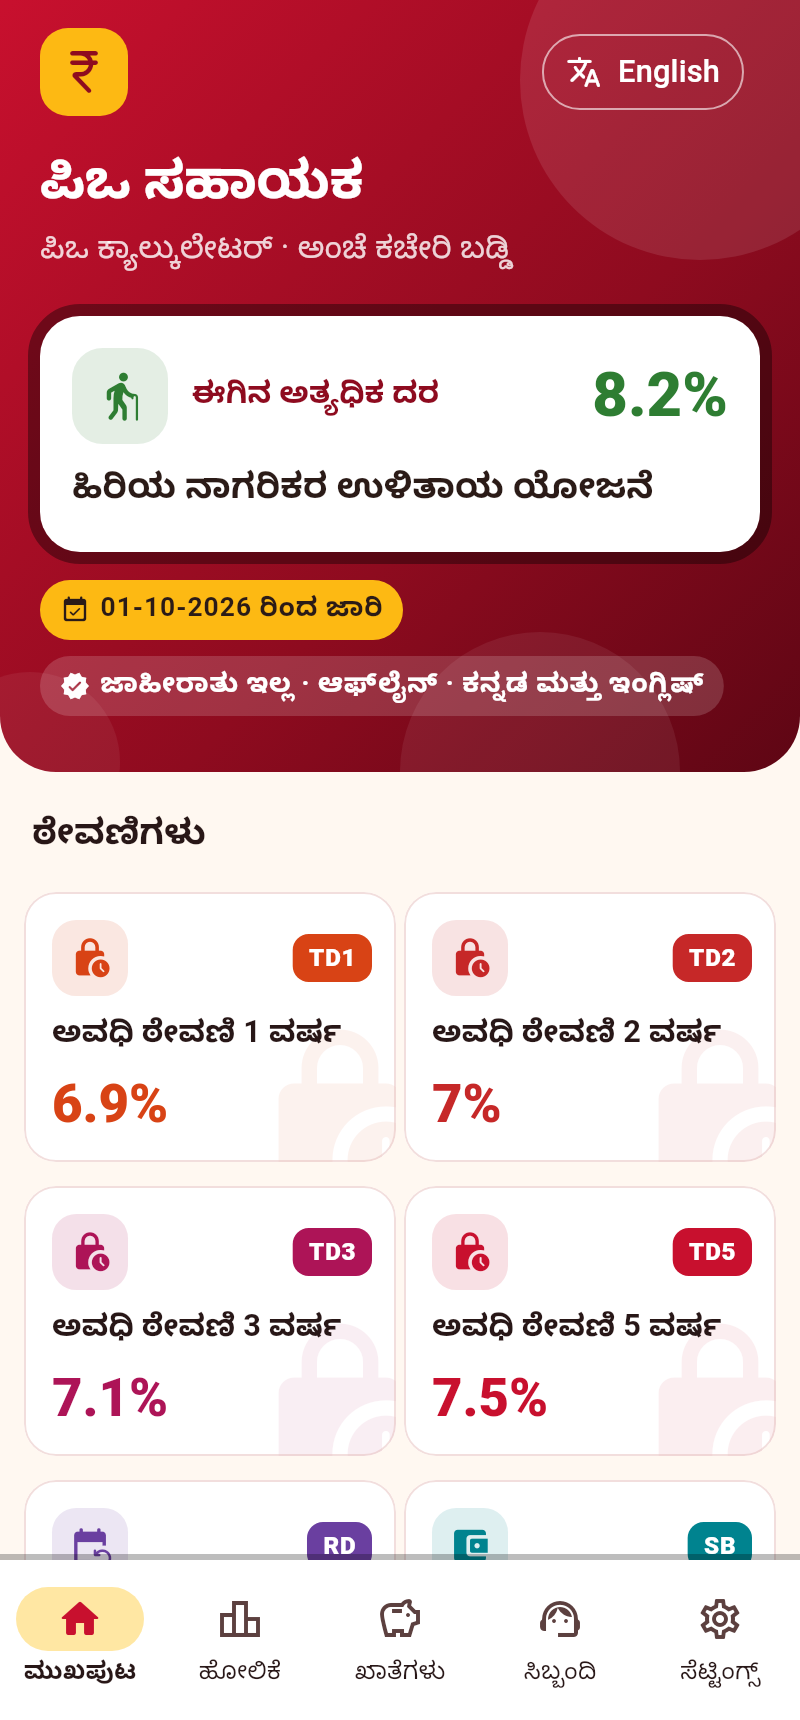
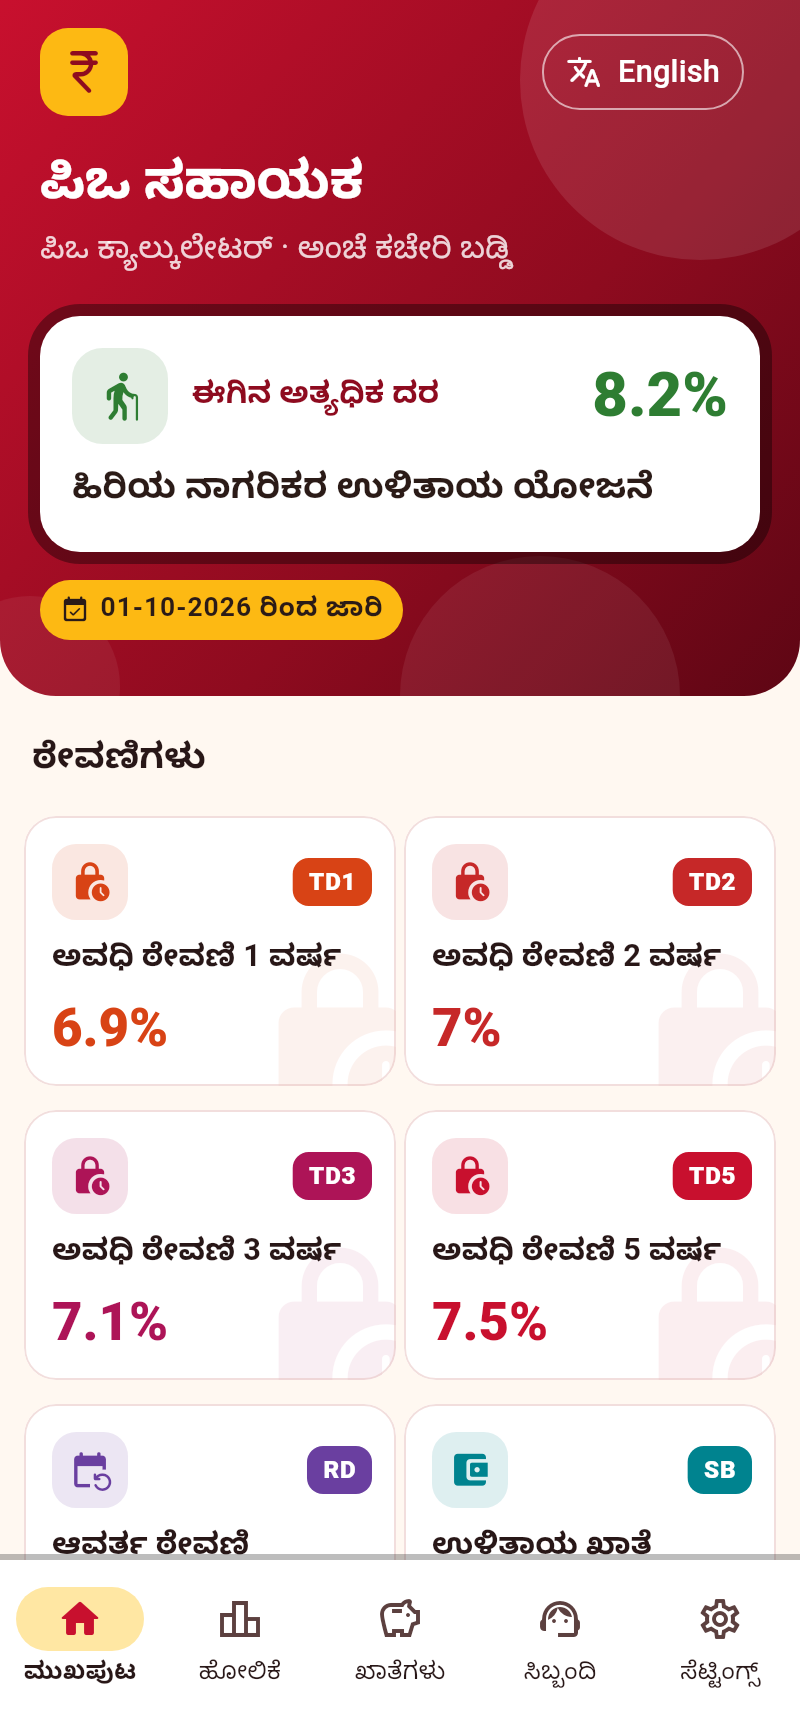
PO Sahayak 1.1.4: remove the 'No ads' line from the home screen
Claude-Session: https://claude.ai/code/session_012VZRKny5dAwRHgm86XLQ6S

Changed region(s): [[0.0, 0.3698, 1.0, 0.9244], [0.8438, 0.832, 0.9688, 0.9244]]

diff --git a/lib/features/home/home_screen.dart b/lib/features/home/home_screen.dart
@@ -193,23 +193,14 @@ class _Header extends StatelessWidget {
               ),
             ),
             const SizedBox(height: 14),
-            Wrap(
-              spacing: 8,
-              runSpacing: 8,
-              children: [
-                Pill(
-                  s.validFrom(dmy(rates.validFrom)),
-                  icon: Icons.event_available_rounded,
-                  background: Brand.yellow,
-                  foreground: Brand.ink,
-                ),
-                Pill(
-                  s.noAdsOffline,
-                  icon: Icons.verified_rounded,
-                  background: Colors.white.withValues(alpha: 0.16),
-                  foreground: Colors.white,
-                ),
-              ],
+            Align(
+              alignment: Alignment.centerLeft,
+              child: Pill(
+                s.validFrom(dmy(rates.validFrom)),
+                icon: Icons.event_available_rounded,
+                background: Brand.yellow,
+                foreground: Brand.ink,
+              ),
             ),
           ],
         ),

diff --git a/lib/app/strings.dart b/lib/app/strings.dart
@@ -389,10 +389,6 @@ class S {
   String get highestRate => _t('Highest rate now', 'ಈಗಿನ ಅತ್ಯಧಿಕ ದರ');
   String get tapToCalculate =>
       _t('Tap a scheme to calculate', 'ಲೆಕ್ಕ ಮಾಡಲು ಯೋಜನೆಯನ್ನು ಆಯ್ಕೆಮಾಡಿ');
-  String get noAdsOffline => _t(
-    'No ads · Works offline · Kannada & English',
-    'ಜಾಹೀರಾತು ಇಲ್ಲ · ಆಫ್ಲೈನ್ · ಕನ್ನಡ ಮತ್ತು ಇಂಗ್ಲಿಷ್',
-  );
   String get yourMoney => _t('Your deposit', 'ನಿಮ್ಮ ಠೇವಣಿ');
   String get interestEarned => _t('Interest earned', 'ಗಳಿಸಿದ ಬಡ್ಡಿ');
   String get growth => _t('Growth year by year', 'ವರ್ಷವಾರು ಬೆಳವಣಿಗೆ');

diff --git a/lib/features/settings/settings_screen.dart b/lib/features/settings/settings_screen.dart
@@ -6,7 +6,7 @@ import '../../app/strings.dart';
 import '../../app/theme.dart';
 import '../../widgets/common.dart';
 
-const String kAppVersion = '1.1.3';
+const String kAppVersion = '1.1.4';
 
 class SettingsScreen extends StatelessWidget {
   const SettingsScreen({super.key});
